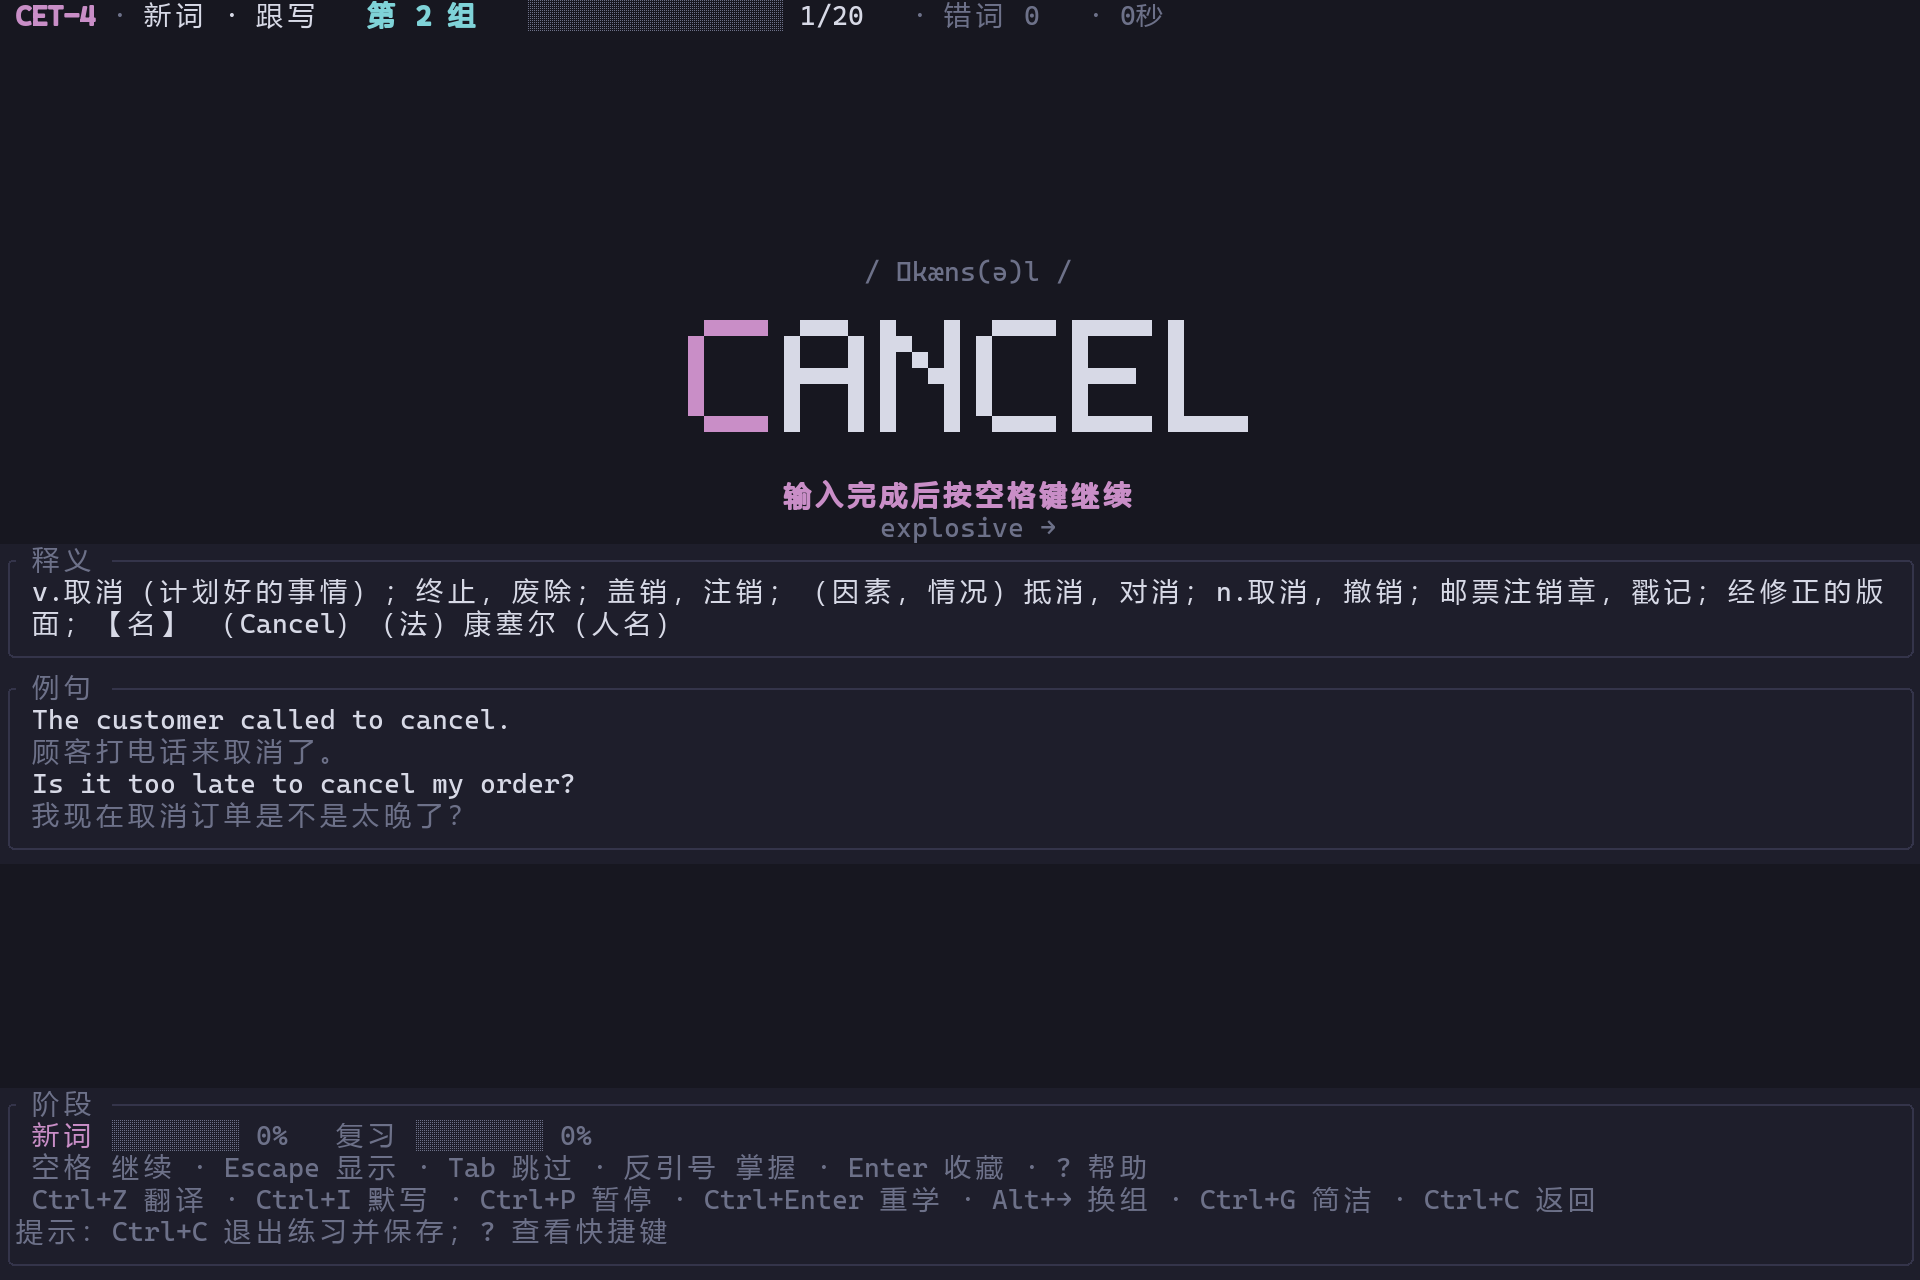
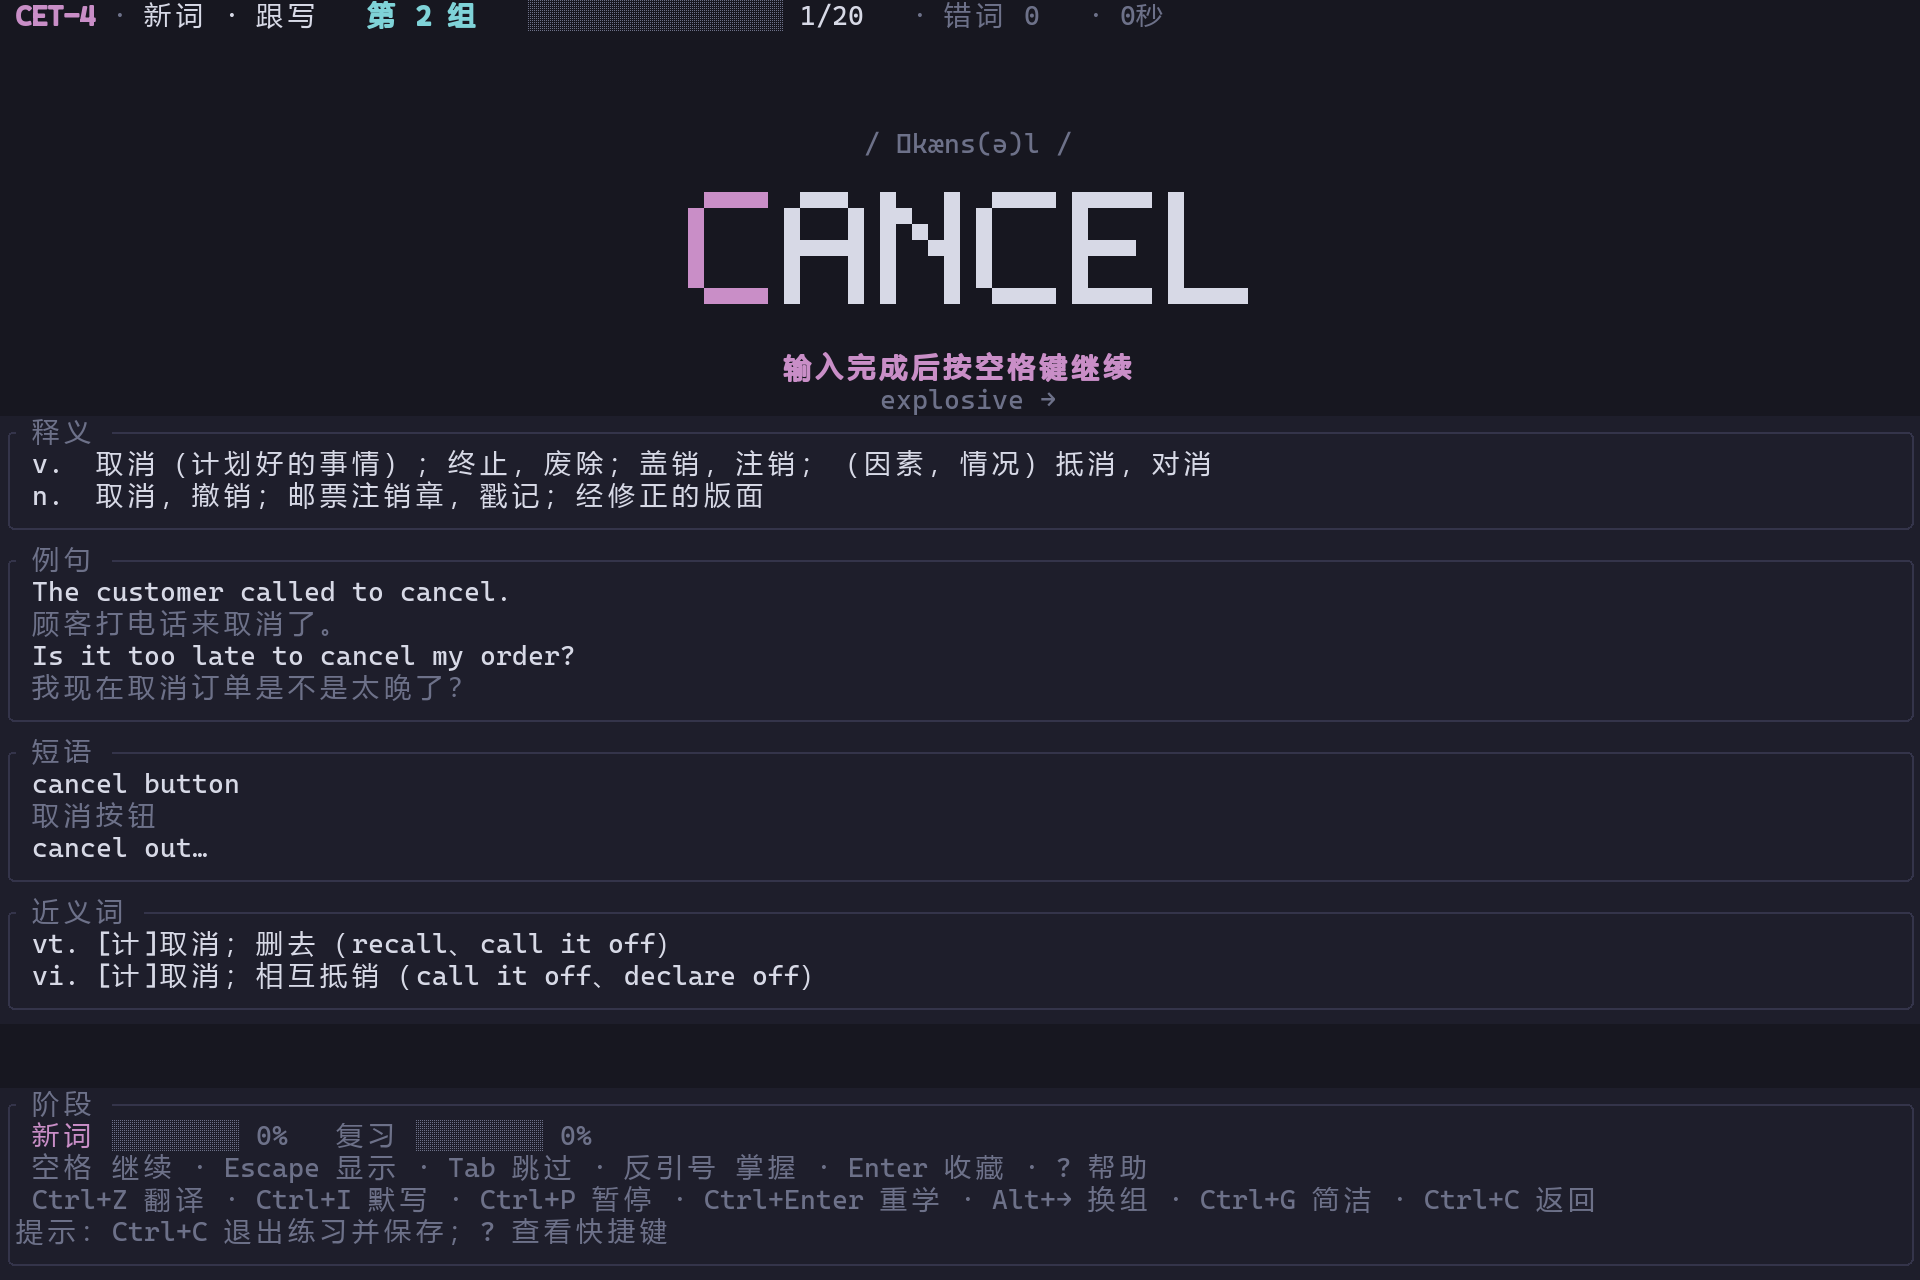
feat(tui): 练习页信息面板对齐上游，补齐短语、近义词、词频与单词笔记
按上游 TypeWord.vue 的信息项与顺序重排练习页卡片：释义、例句、短语、
近义词、词源 / 词根、单词笔记。

释义改为按词性分组、组内按词频倒序、组间按总词频倒序，并跳过
「【名】」「（人名）」条目（对齐 TranslationList.vue）；上游用透明度区分
词频，终端改用主题色深浅。

笔记打通读写闭环：练习页显示，Ctrl+O 打开输入弹层编辑，保存写入
dict.json 的 noteData，清空即删除，重启后仍在。本词的错误次数显示在
音标下方。

diff --git a/src/ui/practice.rs b/src/ui/practice.rs
@@ -16,7 +16,7 @@ use crate::domain::flow::{FlowDisplayState, FlowProgressStage, display_state};
 use crate::domain::i18n::tr;
 use crate::domain::session::PracticeSession;
 use crate::domain::timer::format_duration;
-use crate::domain::types::WordPracticeType;
+use crate::domain::types::{Word, WordPracticeType};
 use crate::ui::bigtext::{self, BigLetter, GLYPH_WIDTH};
 use crate::ui::shell::toast_line;
 use crate::ui::target::Target;
@@ -109,7 +109,7 @@ pub fn layout(app: &App, session: &PracticeSession, area: Rect, theme: &Theme) -
         0
     };
     let big = word_lines(app, session, inner_width, max_big_height, theme);
-    let cards = card_specs(app, session, inner_width, theme);
+    let cards = card_specs(app, session, theme);
     let cards_height: u16 = cards
         .iter()
         .map(|(_, lines, max_lines)| card_height(inner_width, lines, *max_lines))
@@ -438,6 +438,21 @@ fn word_area(
             format!("/ {phonetic} /"),
             Style::default().fg(theme.dim),
         )));
+    }
+    // 本词的错误次数
+    let wrong_times = session
+        .data
+        .wrong_times_map
+        .get(&word.word)
+        .copied()
+        .unwrap_or(0);
+    if wrong_times > 0 {
+        lines.push(Line::from(Span::styled(
+            format!("错 {wrong_times} 次"),
+            Style::default().fg(theme.bad),
+        )));
+    }
+    if !phonetic.is_empty() || wrong_times > 0 {
         lines.push(Line::from(""));
     }
     lines.extend(big.iter().cloned());
@@ -481,12 +496,82 @@ fn word_area(
     frame.render_widget(Paragraph::new(lines).alignment(Alignment::Center), area);
 }
 
-fn card_specs(
-    app: &App,
-    session: &PracticeSession,
-    inner_width: usize,
+/// 词频对应的颜色：上游用透明度区分（生僻 0.6 / 次用 0.8 / 常用 1.0），
+/// 终端没有透明度，改用主题色的深浅表达。
+fn frequency_color(frequency: Option<i64>, theme: &Theme) -> Color {
+    match frequency {
+        Some(0) => theme.dim,
+        Some(1) => theme.muted,
+        _ => theme.fg,
+    }
+}
+
+/// 释义：按词性分组，组内按词频倒序，组间按总词频倒序。
+///
+/// 对齐上游 `TranslationList.vue`：跳过「【名】」「（人名）」的条目，没有词性的
+/// 释义单独成行。
+fn translation_lines(word: &Word, theme: &Theme) -> Vec<(String, Color)> {
+    let mut groups: Vec<(String, Vec<&crate::domain::types::Trans>)> = Vec::new();
+    let mut no_pos: Vec<&crate::domain::types::Trans> = Vec::new();
+    for item in &word.trans {
+        if item.cn.contains("【名】") || item.cn.contains("（人名）") {
+            continue;
+        }
+        if item.pos.is_empty() {
+            no_pos.push(item);
+            continue;
+        }
+        match groups.iter_mut().find(|(pos, _)| *pos == item.pos) {
+            Some((_, items)) => items.push(item),
+            None => groups.push((item.pos.clone(), vec![item])),
+        }
+    }
+    for (_, items) in groups.iter_mut() {
+        items.sort_by_key(|item| std::cmp::Reverse(item.frequency));
+    }
+    let total = |items: &Vec<&crate::domain::types::Trans>| {
+        items.iter().filter_map(|item| item.frequency).sum::<i64>()
+    };
+    groups.sort_by_key(|(_, items)| std::cmp::Reverse(total(items)));
+
+    let mut lines: Vec<(String, Color)> = Vec::new();
+    if !no_pos.is_empty() {
+        let text = no_pos
+            .iter()
+            .map(|item| item.cn.clone())
+            .collect::<Vec<_>>()
+            .join("  ");
+        let color = frequency_color(no_pos.iter().filter_map(|item| item.frequency).max(), theme);
+        lines.push((text, color));
+    }
+    for (pos, items) in groups {
+        let text = items
+            .iter()
+            .map(|item| item.cn.clone())
+            .collect::<Vec<_>>()
+            .join("  ");
+        let color = frequency_color(items.iter().filter_map(|item| item.frequency).max(), theme);
+        lines.push((format!("{pos}  {text}"), color));
+    }
+    lines
+}
+
+/// 例句 / 短语：英文一行、中文一行。
+fn sub_content_lines(
+    items: &[crate::domain::types::WordSubContent],
     theme: &Theme,
-) -> Vec<CardSpec> {
+) -> Vec<(String, Color)> {
+    let mut content: Vec<(String, Color)> = Vec::new();
+    for item in items.iter().take(2) {
+        content.push((item.c.clone(), theme.fg));
+        if !item.cn.is_empty() {
+            content.push((item.cn.clone(), theme.dim));
+        }
+    }
+    content
+}
+
+fn card_specs(app: &App, session: &PracticeSession, theme: &Theme) -> Vec<CardSpec> {
     if session.practice_type() == WordPracticeType::Identify && !session.display.show_word_result {
         return identify_specs(app, session, theme);
     }
@@ -496,28 +581,30 @@ fn card_specs(
     let mut cards: Vec<CardSpec> = Vec::new();
 
     if view.is_show_translate && !word.trans.is_empty() {
-        let text = word
-            .trans
-            .iter()
-            .map(|item| format!("{}{}", item.pos, item.cn))
-            .collect::<Vec<_>>()
-            .join("；");
-        let content = wrap_text(&text, inner_width)
-            .into_iter()
-            .map(|line| (line, theme.fg))
-            .collect();
+        let content = translation_lines(&word, theme);
         cards.push((" 释义 ".to_string(), content, 4));
     }
 
     if app.show_meta && !word.sentences.is_empty() {
-        let mut content: Vec<(String, Color)> = Vec::new();
-        for sentence in word.sentences.iter().take(2) {
-            content.push((sentence.c.clone(), theme.fg));
-            if !sentence.cn.is_empty() {
-                content.push((sentence.cn.clone(), theme.dim));
-            }
-        }
+        let content = sub_content_lines(&word.sentences, theme);
         cards.push((" 例句 ".to_string(), content, 4));
+    }
+
+    if app.show_meta && !word.phrases.is_empty() {
+        let content = sub_content_lines(&word.phrases, theme);
+        cards.push((" 短语 ".to_string(), content, 3));
+    }
+
+    if app.show_meta && !word.synos.is_empty() {
+        let mut content: Vec<(String, Color)> = Vec::new();
+        for syno in word.synos.iter().take(2) {
+            let mut text = format!("{} {}", syno.pos, syno.cn);
+            if !syno.ws.is_empty() {
+                text.push_str(&format!("（{}）", syno.ws.join("、")));
+            }
+            content.push((text, theme.fg));
+        }
+        cards.push((" 近义词 ".to_string(), content, 3));
     }
 
     if app.show_meta && app.boot.settings.show_etymology_and_rel_words {
@@ -528,9 +615,26 @@ fn card_specs(
         if !word.rel_words.root.is_empty() {
             content.push((format!("词根：{}", word.rel_words.root), theme.dim));
         }
+        for group in word.rel_words.rels.iter().take(1) {
+            let words: Vec<String> = group
+                .words
+                .iter()
+                .take(3)
+                .map(|item| item.c.clone())
+                .collect();
+            if !words.is_empty() {
+                content.push((format!("{} {}", group.pos, words.join("、")), theme.dim));
+            }
+        }
         if !content.is_empty() {
             cards.push((" 词源 ".to_string(), content, 3));
         }
+    }
+
+    // 单词笔记：练习页可显示与编辑
+    if let Some(note) = app.boot.base.note_data.get(&word.word) {
+        let text = note.replace('\n', " ");
+        cards.push((" 笔记 ".to_string(), vec![(text, theme.accent_alt)], 2));
     }
 
     cards

diff --git a/tests/app_drive.rs b/tests/app_drive.rs
@@ -837,3 +837,57 @@ fn manual_pause_is_not_resumed_by_typing() {
     app.on_key(KeyEvent::new(KeyCode::Char('a'), KeyModifiers::NONE));
     assert!(app.stat.timer_paused, "手动暂停不应被输入自动恢复");
 }
+
+#[test]
+fn word_note_can_be_edited_and_persists() {
+    let fixture = common::Fixture::new();
+    let paths = fixture.paths();
+    let mut app = app::build_for_test(paths.clone(), fixture.cli()).unwrap();
+    press(&mut app, KeyCode::Enter);
+    let word = app.session.as_ref().expect("session").current_word().word;
+
+    // Ctrl+O 打开笔记编辑
+    app.on_key(KeyEvent::new(KeyCode::Char('o'), KeyModifiers::CONTROL));
+    assert!(app.edit.is_some(), "应打开输入弹层");
+    for character in "记住这个词".chars() {
+        app.apply_action(app::Action::EditChar(character));
+    }
+    app.apply_action(app::Action::EditSave);
+    assert!(app.edit.is_none(), "保存后弹层应关闭");
+
+    assert_eq!(
+        app.boot.base.note_data.get(&word).map(String::as_str),
+        Some("记住这个词"),
+        "笔记应写入词典状态"
+    );
+
+    // 重启后仍在
+    let reloaded = app::build_for_test(paths, fixture.cli()).unwrap();
+    assert_eq!(
+        reloaded.boot.base.note_data.get(&word).map(String::as_str),
+        Some("记住这个词"),
+        "笔记应持久化"
+    );
+}
+
+#[test]
+fn clearing_a_note_removes_it() {
+    let fixture = common::Fixture::new();
+    let mut app = app::build_for_test(fixture.paths(), fixture.cli()).unwrap();
+    press(&mut app, KeyCode::Enter);
+    let word = app.session.as_ref().expect("session").current_word().word;
+    app.boot
+        .base
+        .note_data
+        .insert(word.clone(), "旧笔记".to_string());
+
+    app.on_key(KeyEvent::new(KeyCode::Char('o'), KeyModifiers::CONTROL));
+    for _ in 0..3 {
+        app.apply_action(app::Action::EditBackspace);
+    }
+    app.apply_action(app::Action::EditSave);
+    assert!(
+        !app.boot.base.note_data.contains_key(&word),
+        "清空后应删除笔记"
+    );
+}

diff --git a/src/app/action.rs b/src/app/action.rs
@@ -117,11 +117,17 @@ impl App {
             Action::EditSave => self.edit_save(),
             Action::EditCancel => self.edit = None,
             Action::EditChar(character) => {
-                if let Some(edit) = self.edit.as_mut()
-                    && character.is_ascii_digit()
-                    && edit.buffer.len() < 6
-                {
-                    edit.buffer.push(character);
+                if let Some(edit) = self.edit.as_mut() {
+                    // 笔记是自由文本，其余设置项只接受数字
+                    let accepted = match edit.target {
+                        crate::app::EditTarget::Note => {
+                            !character.is_control() && edit.buffer.chars().count() < 200
+                        }
+                        _ => character.is_ascii_digit() && edit.buffer.len() < 6,
+                    };
+                    if accepted {
+                        edit.buffer.push(character);
+                    }
                 }
             }
             Action::EditBackspace => {
@@ -244,8 +250,31 @@ impl App {
         let Some(edit) = self.edit.take() else {
             return;
         };
+        if edit.target == crate::app::EditTarget::Note {
+            self.save_word_note(edit.buffer);
+            return;
+        }
         let value = edit.buffer.parse::<i64>().unwrap_or_default();
         self.apply_number_value(edit.target, value);
+    }
+
+    /// 保存（或清空）当前单词的笔记。
+    fn save_word_note(&mut self, note: String) {
+        let Some(word) = self
+            .session
+            .as_ref()
+            .map(|session| session.current_word().word)
+            .filter(|word| !word.is_empty())
+        else {
+            return;
+        };
+        let note = note.trim().to_string();
+        if note.is_empty() {
+            self.boot.base.note_data.remove(&word);
+        } else {
+            self.boot.base.note_data.insert(word, note);
+        }
+        self.save_dict_now();
     }
 
     /// 供主页/词库页共用。

diff --git a/src/app/mod.rs b/src/app/mod.rs
@@ -75,6 +75,8 @@ pub enum EditTarget {
     GoodLimit,
     HardLimit,
     Retention,
+    /// 单词笔记（自由文本，不是数字）
+    Note,
 }
 
 #[derive(Clone, Debug)]
@@ -1417,6 +1419,20 @@ impl App {
                 self.show_meta = !self.show_meta;
                 true
             }
+            // 编辑当前词的笔记：上游在练习页内联编辑，TUI 用输入弹层
+            KeyCode::Char('o') if ctrl => {
+                let note = self
+                    .session
+                    .as_ref()
+                    .map(|session| session.current_word().word)
+                    .and_then(|word| self.boot.base.note_data.get(&word).cloned())
+                    .unwrap_or_default();
+                self.edit = Some(EditState {
+                    target: EditTarget::Note,
+                    buffer: note,
+                });
+                true
+            }
             KeyCode::Char('c') if ctrl => {
                 self.save_practice_now();
                 self.save_dict_now();
@@ -1469,6 +1485,7 @@ impl App {
             EditTarget::Retention => {
                 (settings.fsrs_parameters.request_retention * 100.0).round() as i64
             }
+            EditTarget::Note => 0,
         }
     }
 
@@ -1503,6 +1520,7 @@ impl App {
                             (value.clamp(50, 99) as f64) / 100.0
                     }
                     EditTarget::PerDay => {}
+                    EditTarget::Note => {}
                 }
                 self.save_settings_now();
             }

diff --git a/src/ui/overlays.rs b/src/ui/overlays.rs
@@ -454,6 +454,7 @@ fn edit_label(edit: &EditState) -> String {
         crate::app::EditTarget::GoodLimit => tr("fsrs_good_limit"),
         crate::app::EditTarget::HardLimit => tr("fsrs_hard_limit"),
         crate::app::EditTarget::Retention => tr("request_retention"),
+        crate::app::EditTarget::Note => "单词笔记".to_string(),
     }
 }
 

diff --git a/src/ui/settings.rs b/src/ui/settings.rs
@@ -284,5 +284,6 @@ fn number_text(target: EditTarget, value: i64) -> String {
         EditTarget::EasyLimit | EditTarget::GoodLimit | EditTarget::HardLimit => value.to_string(),
         EditTarget::Retention => format!("{value}%"),
         EditTarget::PerDay => format!("{value} 词"),
+        EditTarget::Note => String::new(),
     }
 }

diff --git a/docs/usage.md b/docs/usage.md
@@ -234,7 +234,8 @@ tw --seed 42 --reset-practice       # 复现问题时清掉断点缓存
 
 - **状态行**：词库 · 阶段（如「新词 · 跟写」「小组巩固」「错词巩固」）· 进度条 · 当前序号 / 总数 · 错词数（有错词时用警示色）· 计时（暂停时显示「已暂停」）。
 - **单词区**：音标 → 大字单词（5×7 点阵，空间足够时 2 倍像素）→ 输入提示 → 相邻词（可关闭）。已输入正确的字母为成功色、错误为错误色、下一个待输入字母为强调色；遮罩 / 默写模式下未输入字母显示空心方框，不泄露字形。超长单词压缩字距或拆行，点阵不支持的字符回退普通文本。
-- **信息卡片**：释义、例句（以及开启后的词源 / 词根），按宽度折行，超出高度以「…」截断。
+- **信息卡片**：按上游的顺序与信息密度排列——释义、例句、短语、近义词、词源 / 词根（后两项受设置与 `Ctrl+E` 控制）、单词笔记。释义按词性分组、组内按词频倒序，词频用颜色深浅表示（常用最亮、生僻最暗）；按宽度折行，超出高度以「…」截断。
+- **错误次数**：本词本轮出错的次数显示在音标下方。
 - **底部阶段条**：每个节点一根进度条、两行快捷键与临时提示；`Ctrl+B` 收起。
 - **词表侧栏**：`Ctrl+L` 展开，每行序号 + 单词，`▶` 当前词、错词用错误色、已排除词用暗色。
 
@@ -362,6 +363,7 @@ tw --seed 42 --reset-practice       # 复现问题时清掉断点缓存
 | `Ctrl+L` | 显示 / 隐藏右侧词表 | 显示当前词、错词与已排除词 |
 | `Ctrl+E` | 显示 / 隐藏例句与词源 | 总开关；词源还需设置项开启 |
 | `Ctrl+G` | 切换简洁模式 | 同时隐藏底部阶段条与右侧词表 |
+| `Ctrl+O` | 编辑当前词的笔记 | 弹层里输入文字，Enter 保存、Esc 取消；清空即删除 |
 | `Ctrl+Q` | 切换主题 | 在深色 / 浅色 / 高对比 / 自定义主题之间循环 |
 | `Ctrl+C` | 保存并返回主页 | 不是退出程序 |
 | `Ctrl+→`（别名 `Ctrl+N`） | 下一个词 | 组合键被吞时用别名 |
